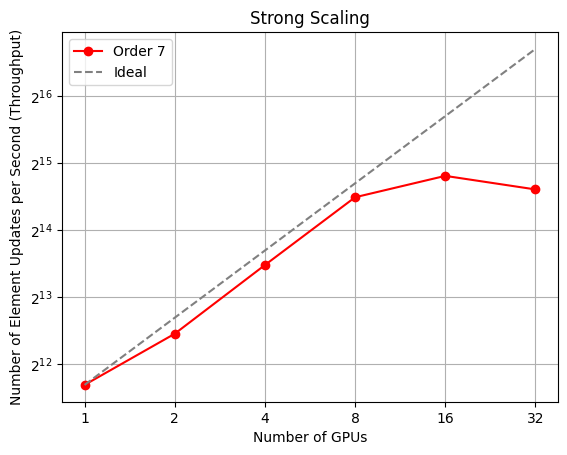
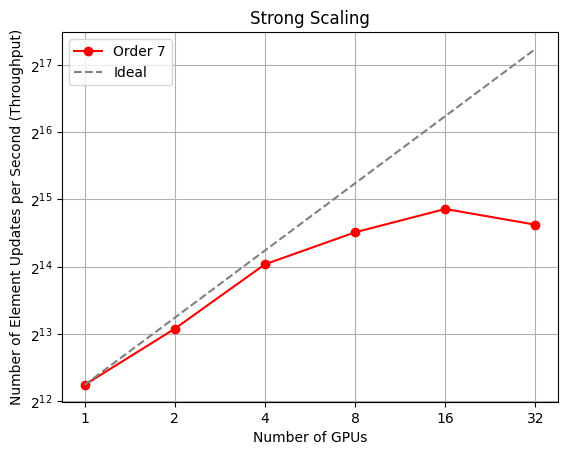
Update one scaling plot and some scripts

diff --git a/applications/exahype2/exaseis/scaling-plot.py b/applications/exahype2/exaseis/scaling-plot.py
@@ -27,8 +27,8 @@ output_format = "png"
 title = "Strong Scaling"
 xlabel = "Number of GPUs"
 ylabel = "Number of Element Updates per Second (Throughput)"
-label = "Order 6"
-plot_color = "blue"
+label = "Order 7"
+plot_color = "red"
 log_x = True
 log_y = True
 
